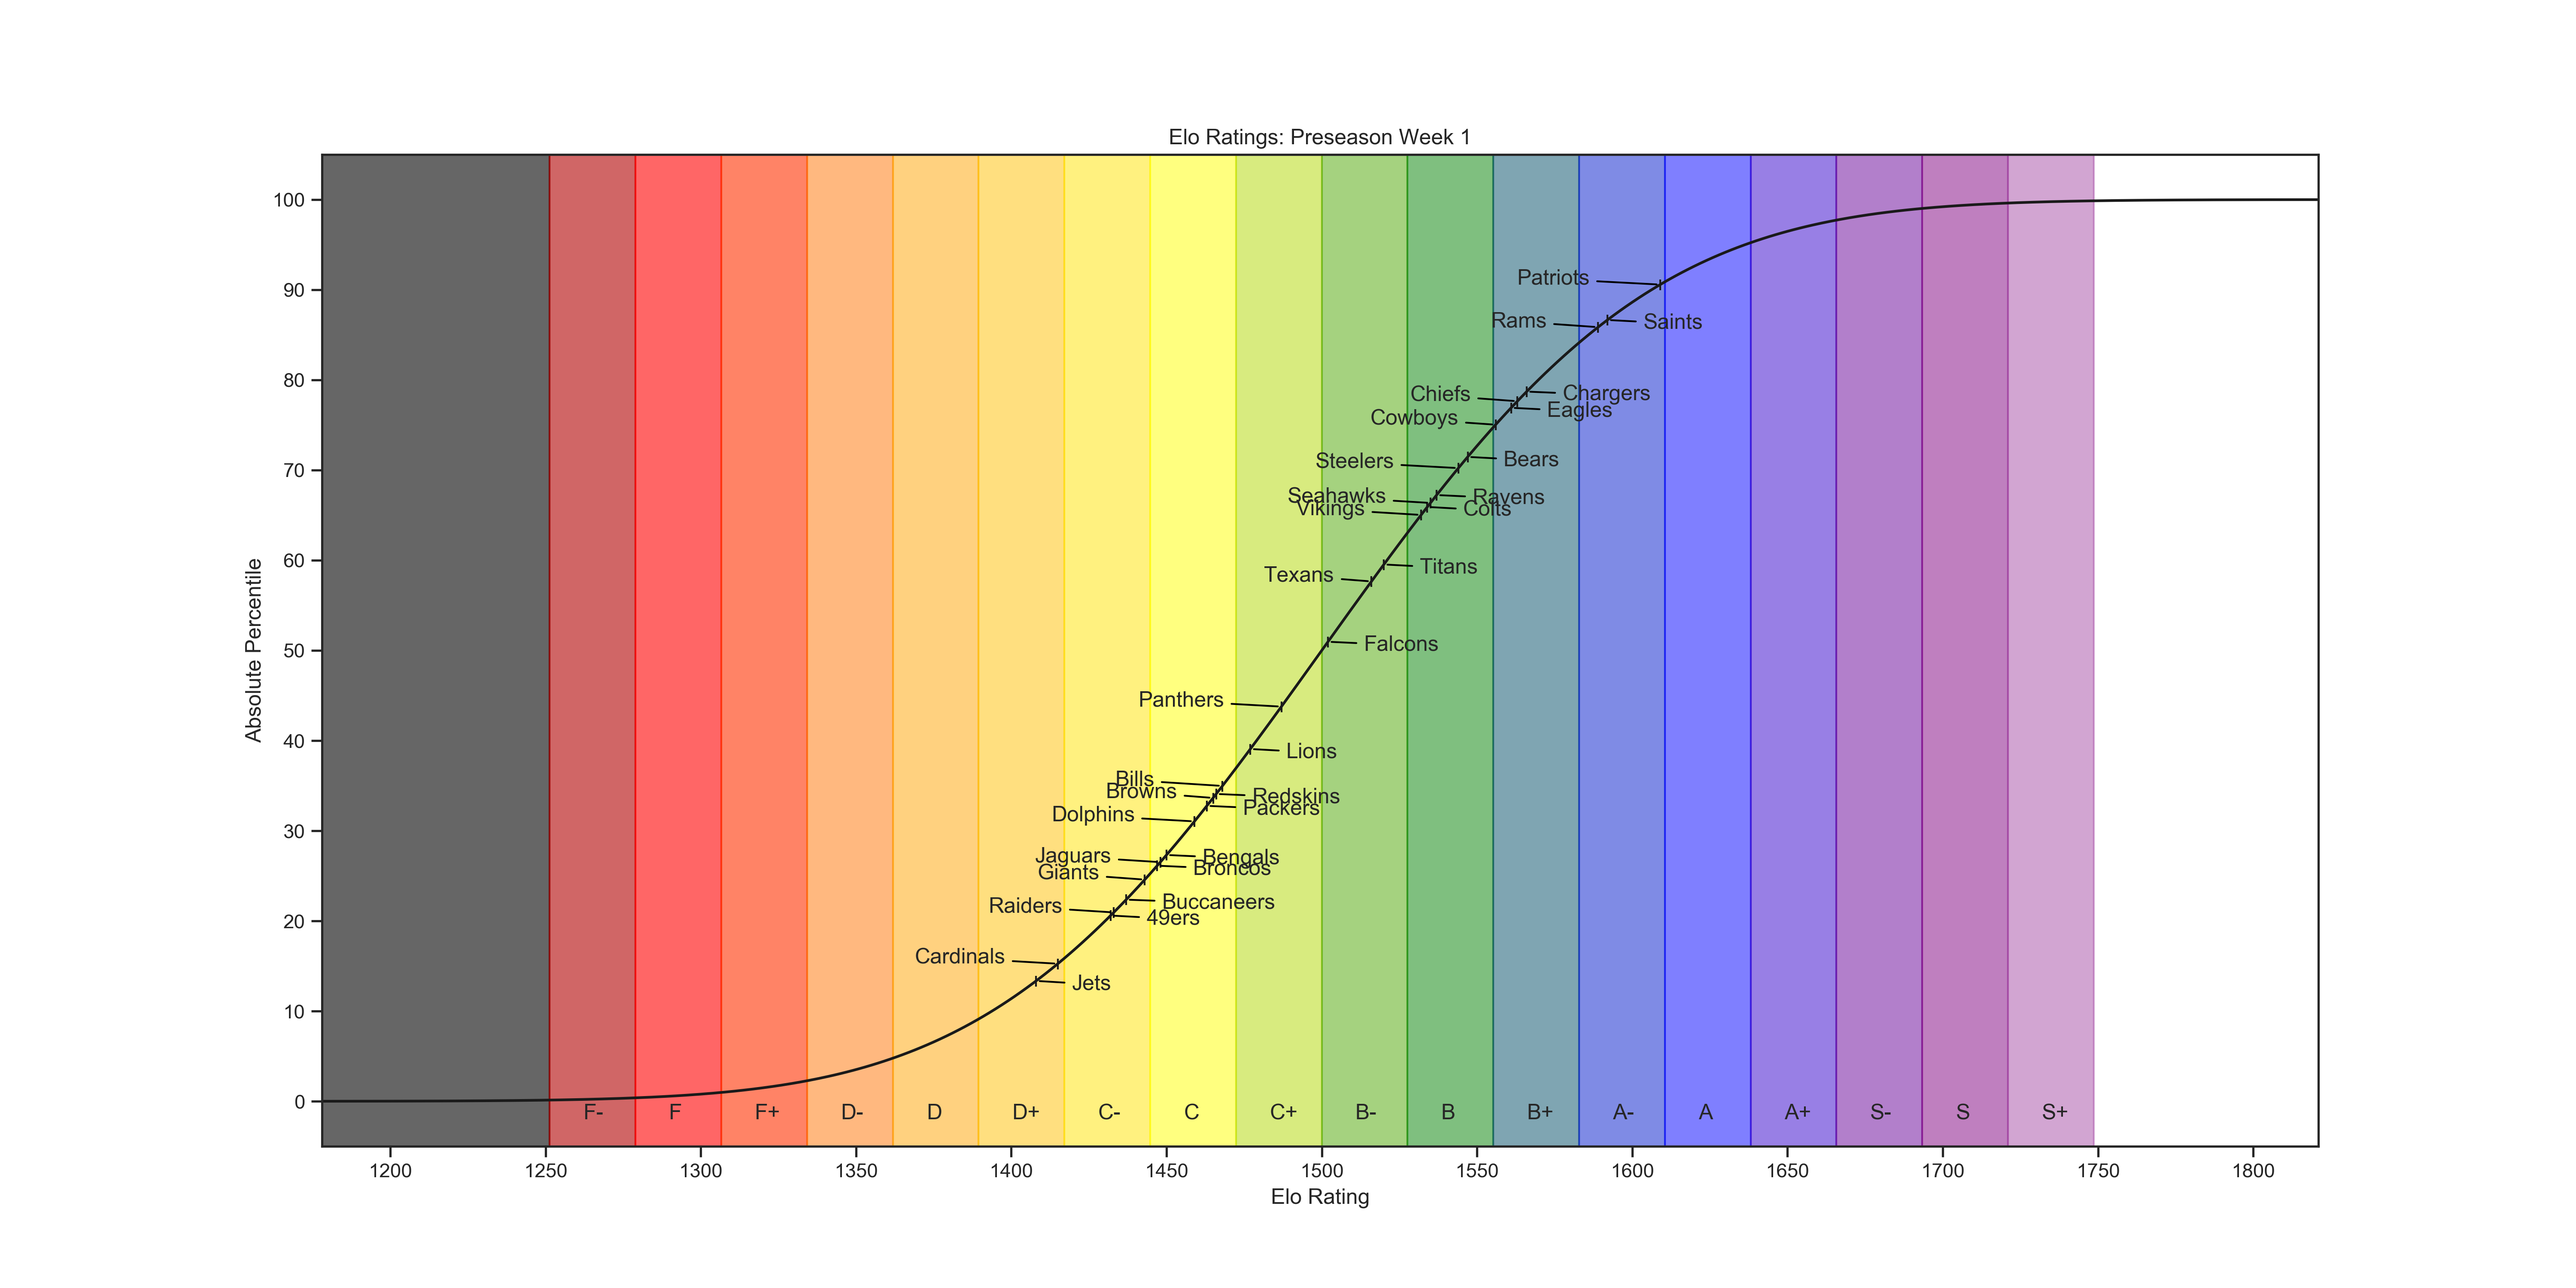
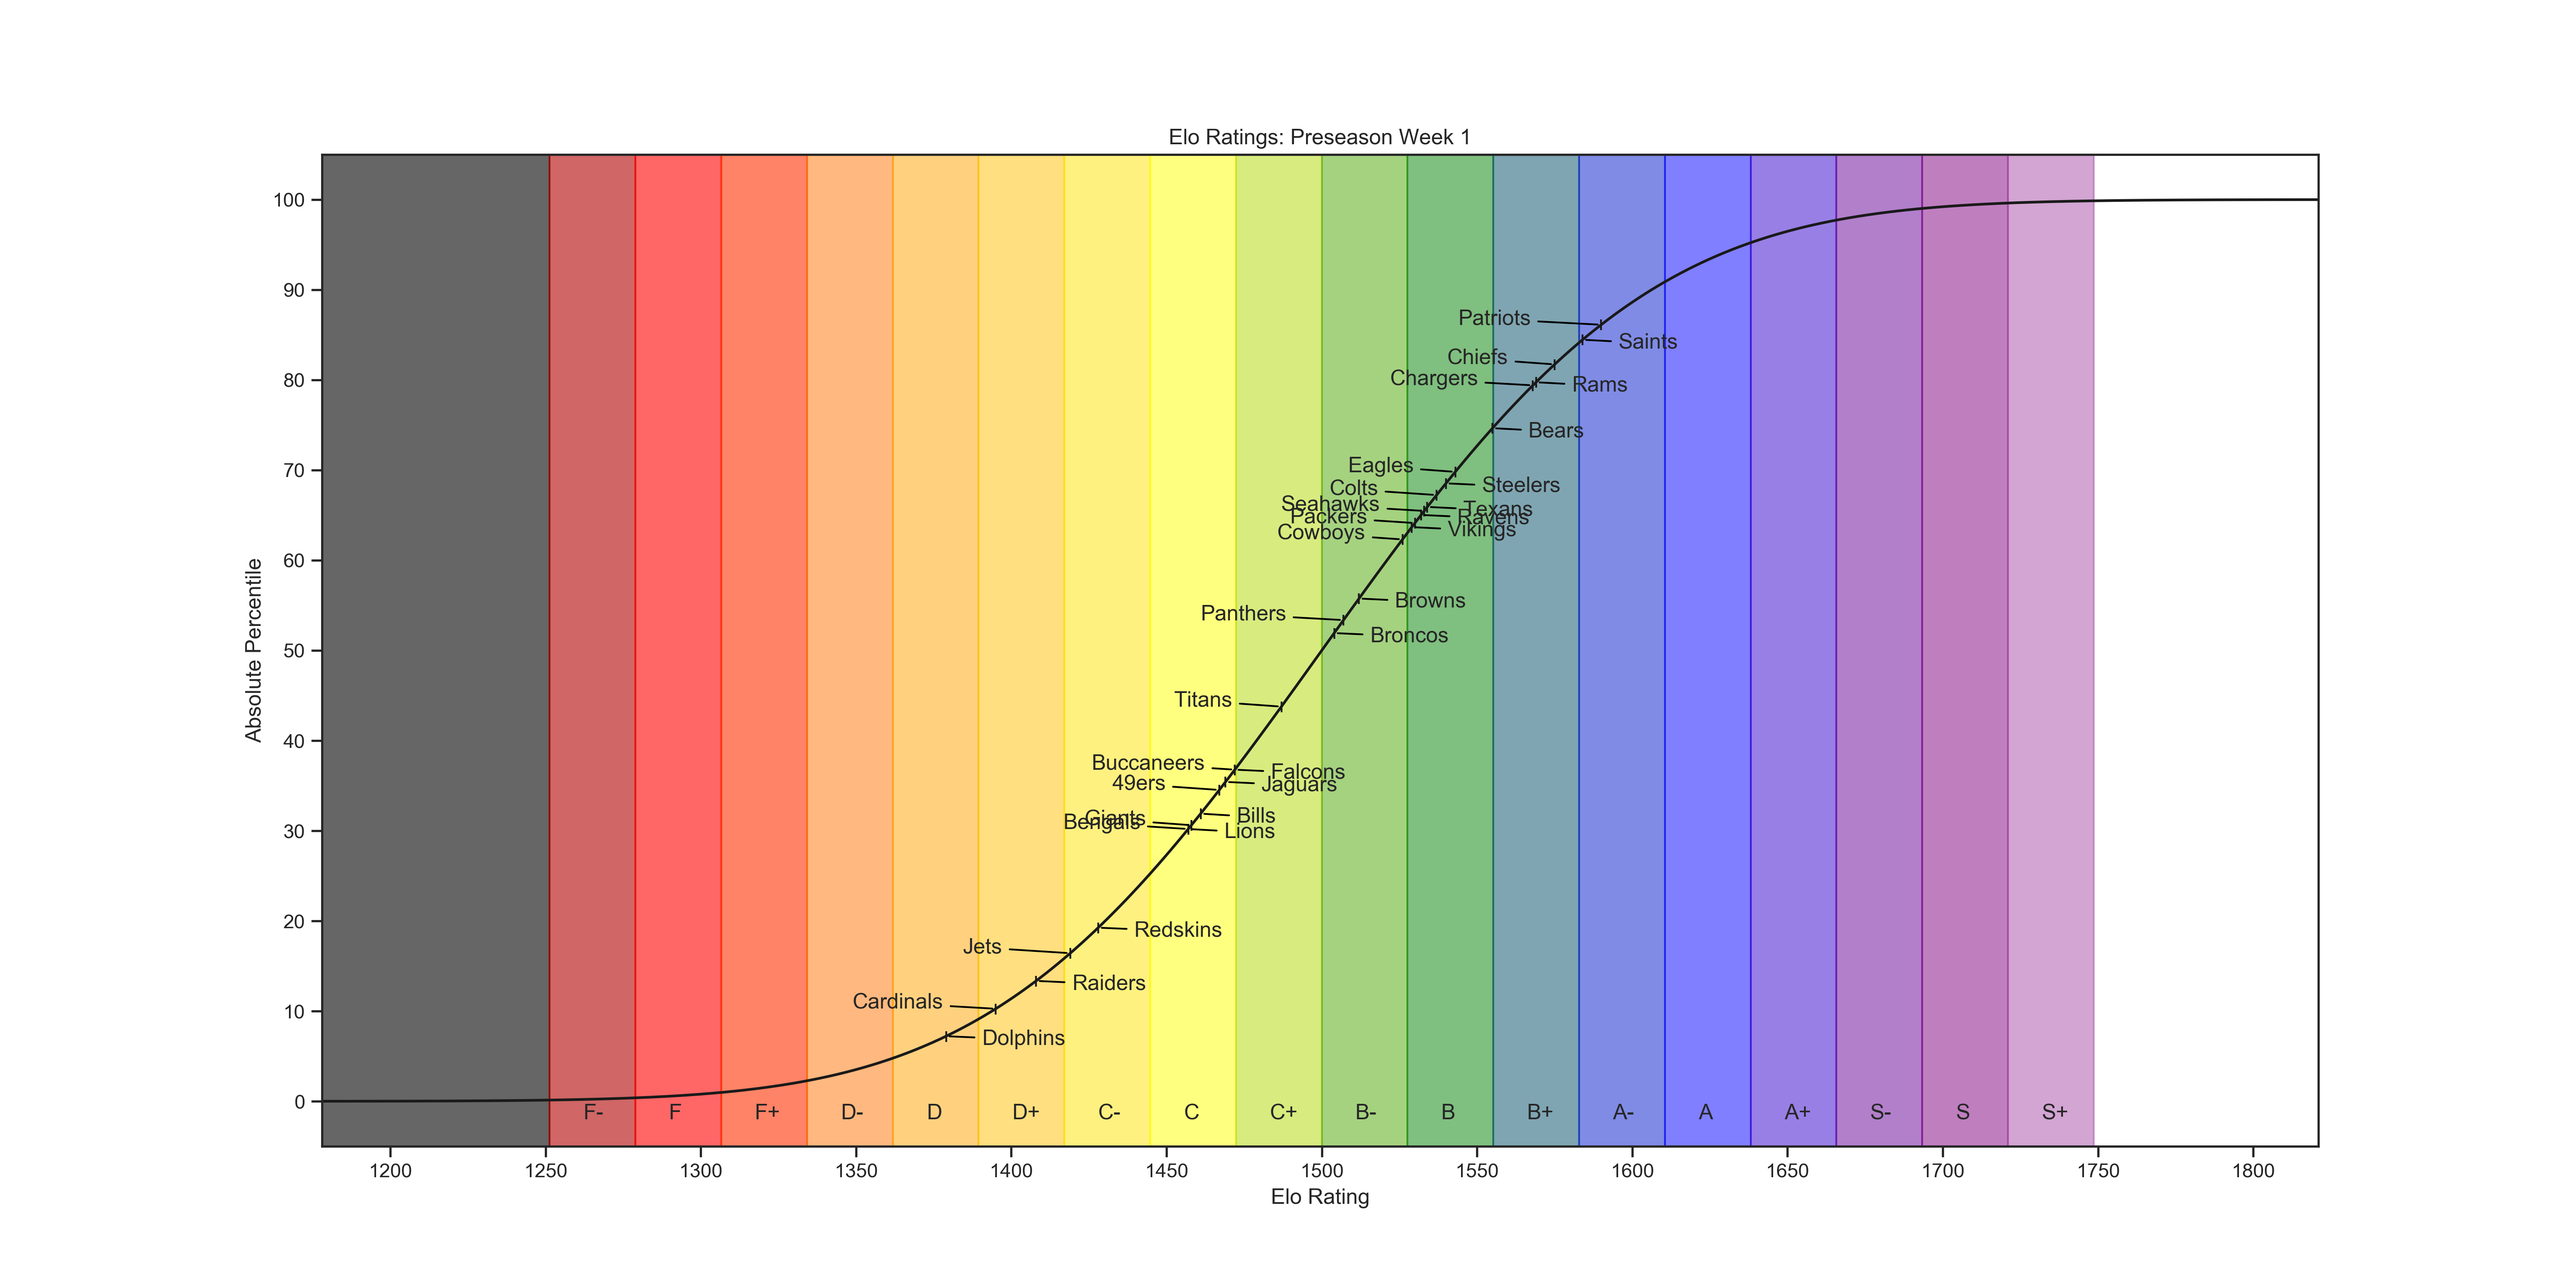
Replace initial elo rankings with rankings from numberfile

diff --git a/NFLSeason2019.py b/NFLSeason2019.py
@@ -103,38 +103,39 @@ def set_up_teams():
         return team_name, 0, 0, 0, elo, 0, 0, 0, 0, 0, 0, 0, 0, 0
 
     teams = list()
-    teams.append(create_base_team('49ers', 1431.803))
-    teams.append(create_base_team('Bears', 1547.207))
-    teams.append(create_base_team('Bengals', 1450.022))
-    teams.append(create_base_team('Bills', 1467.667))
-    teams.append(create_base_team('Broncos', 1447.034))
-    teams.append(create_base_team('Browns', 1465.156))
-    teams.append(create_base_team('Buccaneers', 1437.01))
-    teams.append(create_base_team('Cardinals', 1414.907))
-    teams.append(create_base_team('Chargers', 1566.415))
-    teams.append(create_base_team('Chiefs', 1562.643))
-    teams.append(create_base_team('Colts', 1533.559))
-    teams.append(create_base_team('Cowboys', 1555.546))
-    teams.append(create_base_team('Dolphins', 1458.772))
-    teams.append(create_base_team('Eagles', 1561.189))
-    teams.append(create_base_team('Falcons', 1501.919))
-    teams.append(create_base_team('Giants', 1442.666))
-    teams.append(create_base_team('Jaguars', 1447.748))
-    teams.append(create_base_team('Jets', 1408.145))
-    teams.append(create_base_team('Lions', 1476.841))
-    teams.append(create_base_team('Packers', 1463.462))
-    teams.append(create_base_team('Panthers', 1486.623))
-    teams.append(create_base_team('Patriots', 1608.682))
-    teams.append(create_base_team('Raiders', 1433.093))
-    teams.append(create_base_team('Rams', 1589.463))
-    teams.append(create_base_team('Ravens', 1537.051))
-    teams.append(create_base_team('Redskins', 1465.572))
-    teams.append(create_base_team('Saints', 1592.439))
-    teams.append(create_base_team('Seahawks', 1535.119))
-    teams.append(create_base_team('Steelers', 1544.046))
-    teams.append(create_base_team('Texans', 1515.959))
-    teams.append(create_base_team('Titans', 1520.108))
-    teams.append(create_base_team('Vikings', 1532.134))
+    teams.append(create_base_team('49ers', 1467.212))
+    teams.append(create_base_team('Bears', 1554.783))
+    teams.append(create_base_team('Bengals', 1457.391))
+    teams.append(create_base_team('Bills', 1460.801))
+    teams.append(create_base_team('Broncos', 1503.905))
+    teams.append(create_base_team('Browns', 1511.952))
+    teams.append(create_base_team('Buccaneers', 1471.986))
+    teams.append(create_base_team('Cardinals', 1395.463))
+    teams.append(create_base_team('Chargers', 1568.015))
+    teams.append(create_base_team('Chiefs', 1575.108))
+    teams.append(create_base_team('Colts', 1537.46))
+    teams.append(create_base_team('Cowboys', 1526.138))
+    teams.append(create_base_team('Dolphins', 1378.685))
+    teams.append(create_base_team('Eagles', 1543.325))
+    teams.append(create_base_team('Falcons', 1471.85))
+    teams.append(create_base_team('Giants', 1458.209))
+    teams.append(create_base_team('Jaguars', 1469.121))
+    teams.append(create_base_team('Jets', 1419.061))
+    teams.append(create_base_team('Lions', 1457.254))
+    teams.append(create_base_team('Packers', 1529.549))
+    teams.append(create_base_team('Panthers', 1507.451))
+    teams.append(create_base_team('Patriots', 1590.248))
+    teams.append(create_base_team('Raiders', 1408.422))
+    teams.append(create_base_team('Rams', 1568.833))
+    teams.append(create_base_team('Ravens', 1531.731))
+    teams.append(create_base_team('Redskins', 1428.337))
+    teams.append(create_base_team('Saints', 1584.247))
+    teams.append(create_base_team('Seahawks', 1533.368))
+    teams.append(create_base_team('Steelers', 1540.325))
+    teams.append(create_base_team('Texans', 1533.504))
+    teams.append(create_base_team('Titans', 1487.4))
+    teams.append(create_base_team('Vikings', 1528.867))
+
     return teams
 
 
